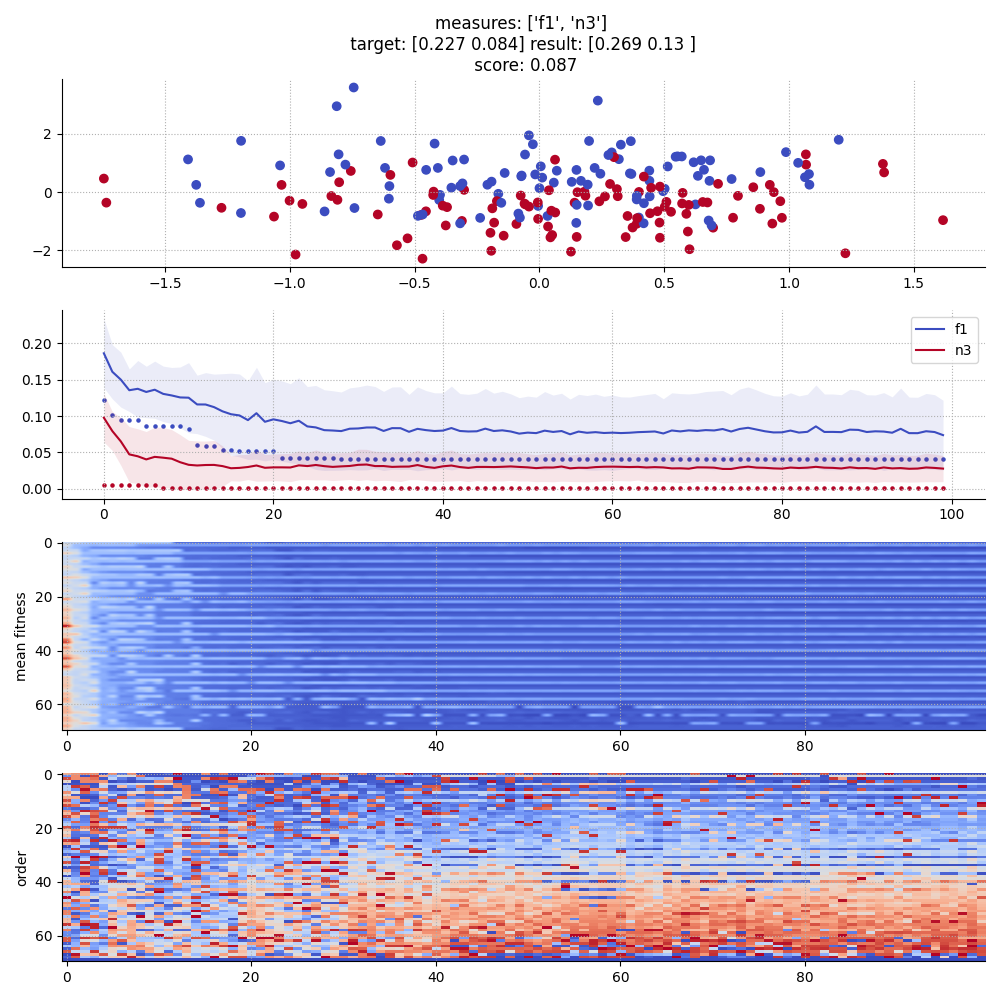
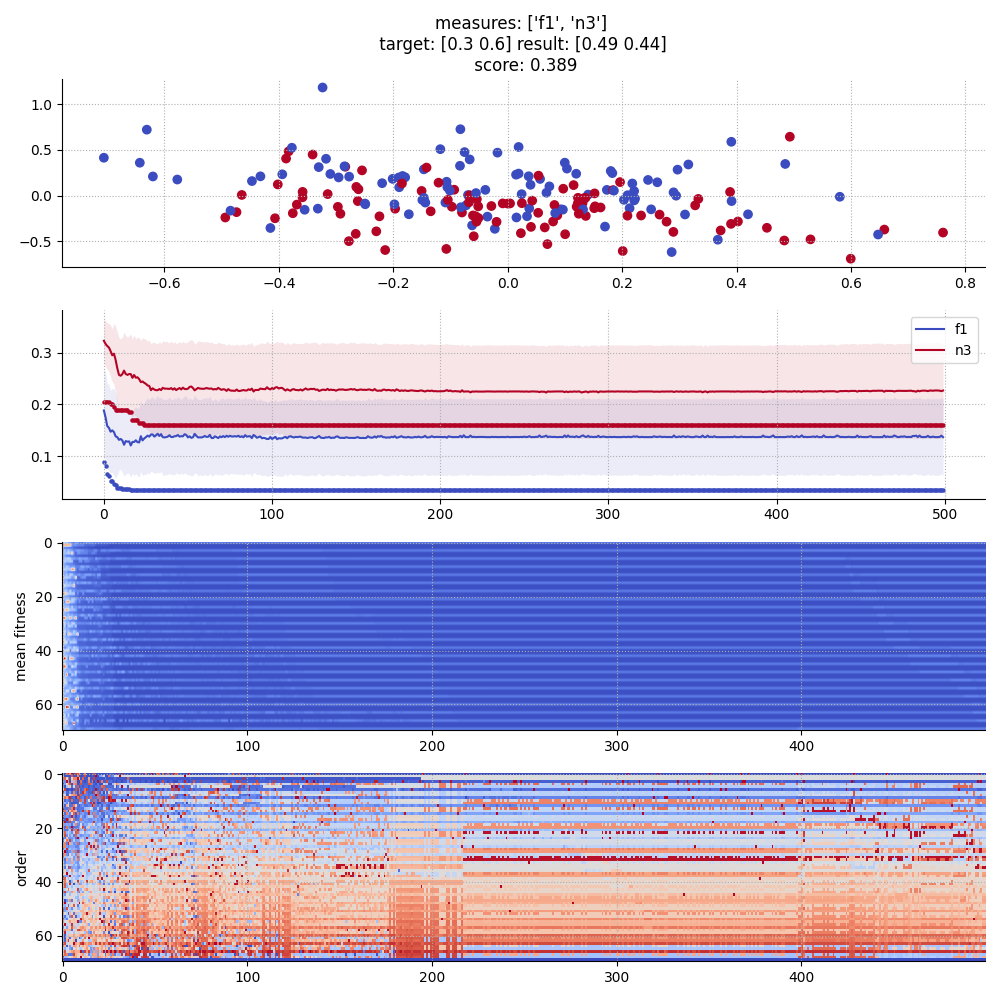
cool

diff --git a/GenMirror.py b/GenMirror.py
@@ -6,16 +6,12 @@ import matplotlib.pyplot as plt
 from sklearn.datasets import load_breast_cancer
 from tqdm import tqdm
 
-class GenMirror:
-    def __init__(self, X_source, y_source, X_target, y_target, measures):
+class GenComplexity:
+    def __init__(self, X_source, y_source, target_complexity, measures):
         self.X_source = X_source
         self.y_source = y_source
-        self.X_target = X_target
-        self.y_target = y_target
-
         self.measures = measures
-        
-        self.target_complexity = [f(self.X_target, self.y_target) for f in self.measures]
+        self.target_complexity = target_complexity
 
         
     def generate(self, pop_size = 100, iters=100, cross_ratio=0.3, mut_ratio=0.1, mut_std = 0.1, decay = 0.01):
@@ -159,6 +155,7 @@ class GenMirror:
         cols = plt.cm.coolwarm(np.linspace(0,1,self.iters))
         for iter in range(self.iters):
             ax.scatter(aa[iter,:,0], aa[iter,:,1], color=cols[iter], alpha=0.2)
+        ax.scatter(aa[-1,len(self.measures),0],aa[-1,len(self.measures),1],c='r',marker='x')
         ax.scatter(0,0,c='k',marker='x')
 
         ax.spines['top'].set_visible(False)
@@ -171,16 +168,19 @@ class GenMirror:
 
 
 ### target
-X_target, y_target = load_breast_cancer(return_X_y=True)
-# X_source, y_source = make_classification(n_samples=200, n_features=2, n_informative=2, n_repeated=0, n_redundant=0)
-X_source, y_source = make_classification(n_samples=200)
 complexity_fun = [f1, n3]
 
-# optimize
-mirror = GenMirror(X_source, y_source, X_target, y_target, complexity_fun)
-mirror.generate(iters=100, pop_size=70, cross_ratio=0.25, mut_ratio=0.1)
+X_target, y_target = load_breast_cancer(return_X_y=True)
+# targets = [f(X_target, y_target) for f in complexity_fun]
+targets = [0.3, 0.6]
 
-X, y = mirror.return_best()
+X_source, y_source = make_classification(n_samples=200)
+
+# optimize
+mirror = GenComplexity(X_source, y_source, targets, complexity_fun)
+mirror.generate(iters=500, pop_size=70, cross_ratio=0.25, mut_ratio=0.1)
+
+X, y = mirror.return_best(2)
 
 mirror.gen_image()
 mirror.gen_pareto()
